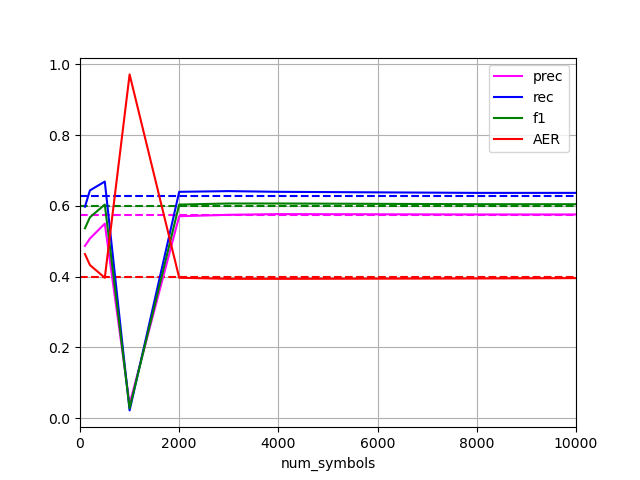
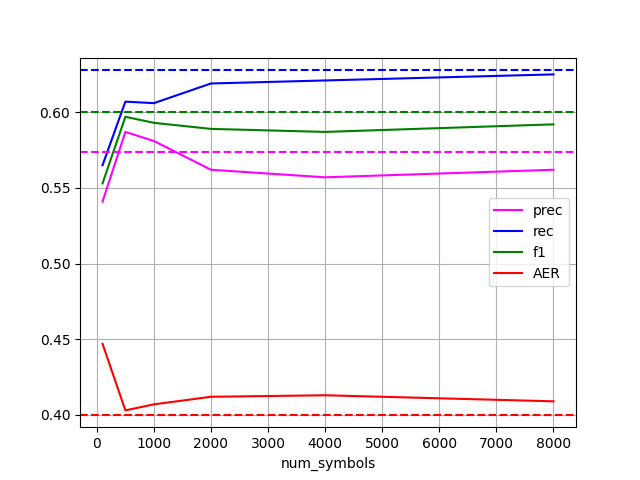
scores for normal_eng + bpe_deu

diff --git a/extract_alignments.py b/extract_alignments.py
@@ -33,8 +33,8 @@ def extract_alignments(i=-1, input_mode=False):
 			if german_bpe:
 				s = join(datadir, 'input/eng_with_10k.txt')
 			else:
-				s = join(bpedir, 'segmentations', source+"_"+str(num_symbols)+('_'+str(i) if i != -1 else '')+".bpe")
-			t = join(bpedir, 'segmentations', target+"_"+str(num_symbols)+('_'+str(i) if i != -1 else '')+".bpe")
+				s = join(bpedir, 'segmentations', source+"_"+str(num_symbols)+('_'+str(i) if dropout else '')+".bpe")
+			t = join(bpedir, 'segmentations', target+"_"+str(num_symbols)+('_'+str(i) if dropout else '')+".bpe")
 			o = join(bpedir, "fastalign", 
 						str(num_symbols) +
 						('_'+str(i) if i != -1 else '') +
@@ -53,15 +53,8 @@ def extract_alignments(i=-1, input_mode=False):
 			ftrg = codecs.open(t, "r", "utf-8")
 
 			for sl, tl in zip(fsrc, ftrg):
-				sl = sl.strip().split("\t")
-				tl = tl.strip().split("\t")
-
-				if len(sl) == 2 and len(tl) == 2:
-					sl = sl[1]
-					tl = tl[1]
-				else:
-					sl = sl[0]
-					tl = tl[0]
+				sl = sl.strip().split("\t")[-1]
+				tl = tl.strip().split("\t")[-1]
 
 				fa_file.write(sl + " ||| " + tl + "\n")
 			fa_file.close()

diff --git a/README.md b/README.md
@@ -4,7 +4,6 @@ Master thesis repo
 
 ## tasks
 
-* [ ] normal_eng & bpe_deu experiment, terrible scores. analyze `calc_score`
 * [ ] dropout + bpe_deu experiment
 * [ ] Read [unified LM tokenization paper](https://www.aclweb.org/anthology/P18-1007/)
 
